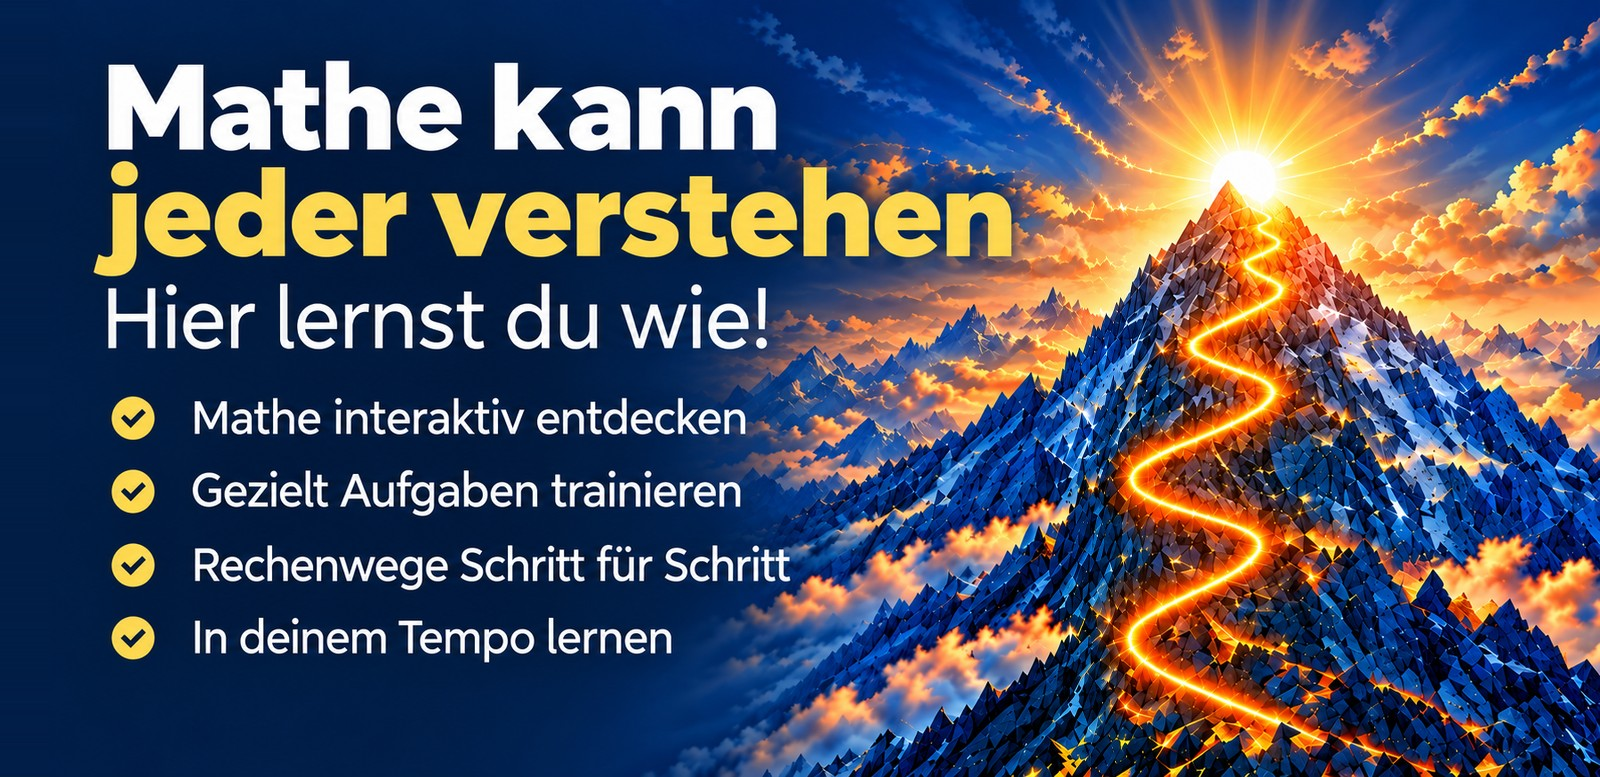
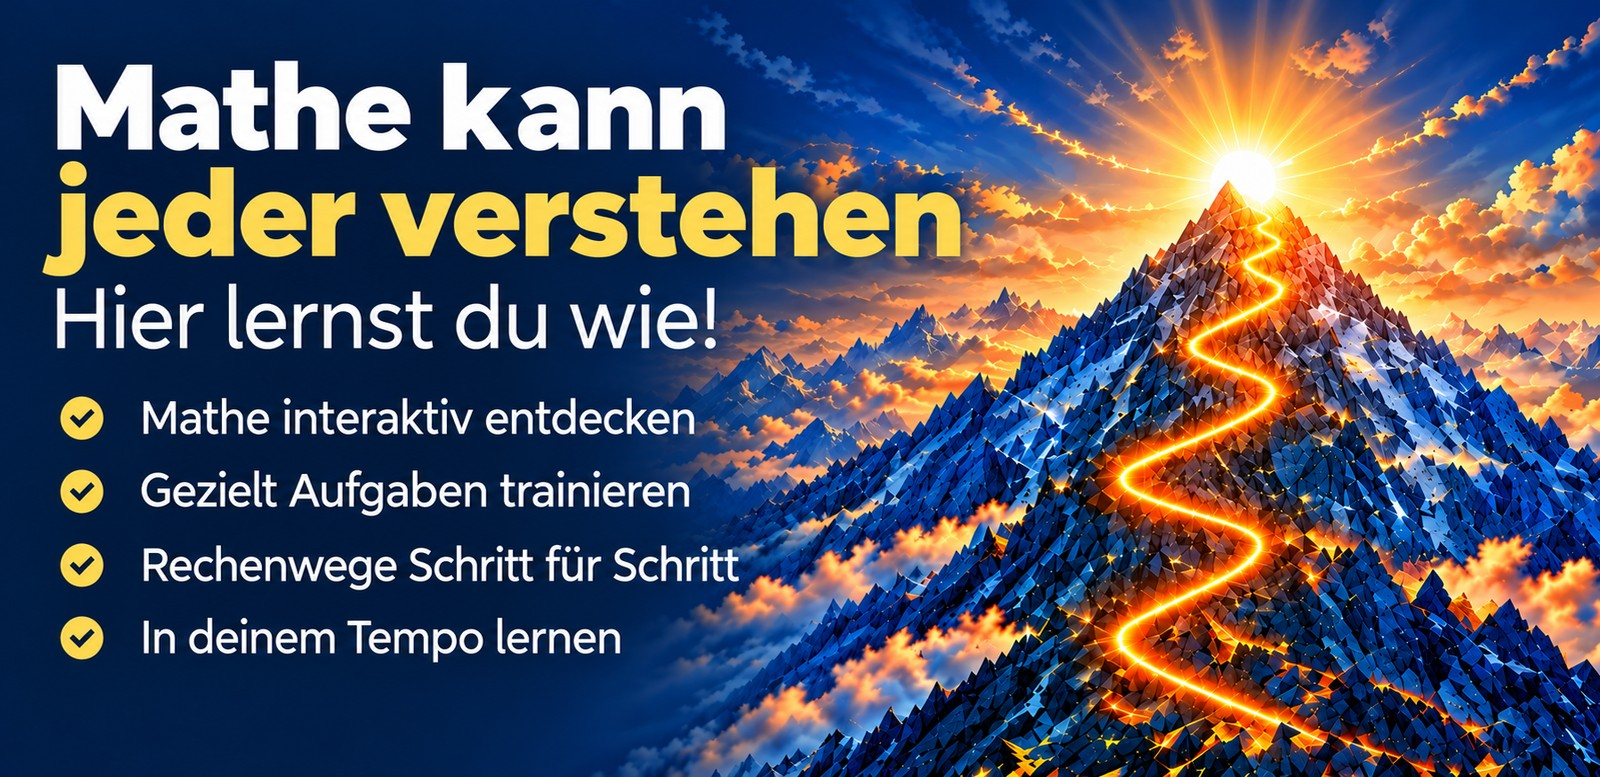
Startseite/Header: Randabstand links und rechts halbiert
Logo, Banner-Text und Einleitungstext stehen 12 px vom linken Rand (vorher 24 px),
die Header-Buttons 12 px vom rechten Rand.

Claude-Session: https://claude.ai/code/session_01MpSQcZVwHtbv41VGNpuPgg

diff --git a/matheskript-v80-deploy/src/func2.jsx b/matheskript-v80-deploy/src/func2.jsx
@@ -991,7 +991,7 @@ export function Startseite({ gehe }) {
     {/* Banner ganz oben, bündig unter dem Header und über die volle Breite */}
     <StartBanner />
     <div className="mx-auto px-6 pb-14" style={{ maxWidth: 620 }}>
-      <section style={{ paddingTop: 24, paddingBottom: 6 }}>
+      <section style={{ paddingTop: 24, paddingBottom: 6, marginLeft: -12 }}>
         <p style={{ color: C.grau, fontSize: 15, fontWeight: 300, lineHeight: 1.8, margin: 0 }}>
           Hier wird Oberstufenmathe <b style={{ color: C.tinte, fontWeight: 600 }}>sichtbar</b>: Graphen live plotten,
           Ebenen im Raum drehen, Wahrscheinlichkeiten in Tafeln und Bäumen sehen. Dazu Videokurse mit Kurz-Checks

diff --git a/matheskript-v80-deploy/src/func10.jsx b/matheskript-v80-deploy/src/func10.jsx
@@ -310,7 +310,7 @@ export function Mathilda() {
 
       {/* Kopfleiste mit Menü */}
       <div data-kopfleiste style={{ position: "sticky", top: 0, zIndex: 50, background: C.seeTief }}>
-        <div className="mx-auto px-6 flex items-center justify-between" style={{ maxWidth: 620, height: 56 }}>
+        <div className="mx-auto px-3 flex items-center justify-between" style={{ maxWidth: 620, height: 56 }}>
           <style>{`
             .logo-silber{background:linear-gradient(180deg,#FFFFFF 0%,${C.silberHell} 35%,${C.silber} 60%,${C.silberDunkel} 100%);-webkit-background-clip:text;background-clip:text;color:transparent}
             .titel-kurz{display:none}
